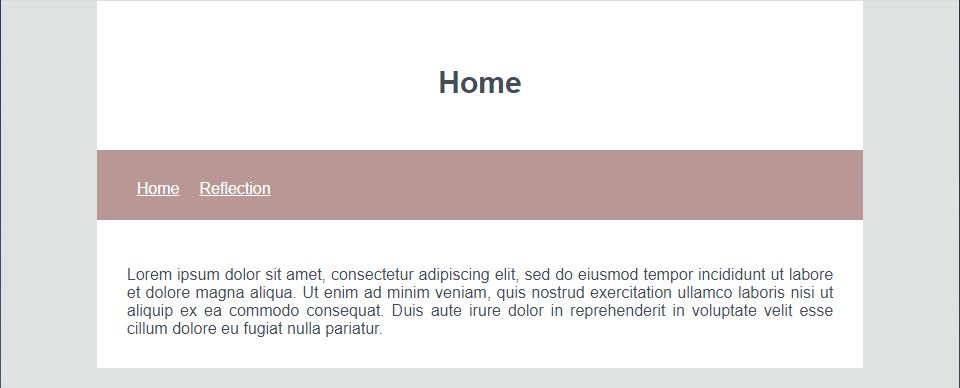
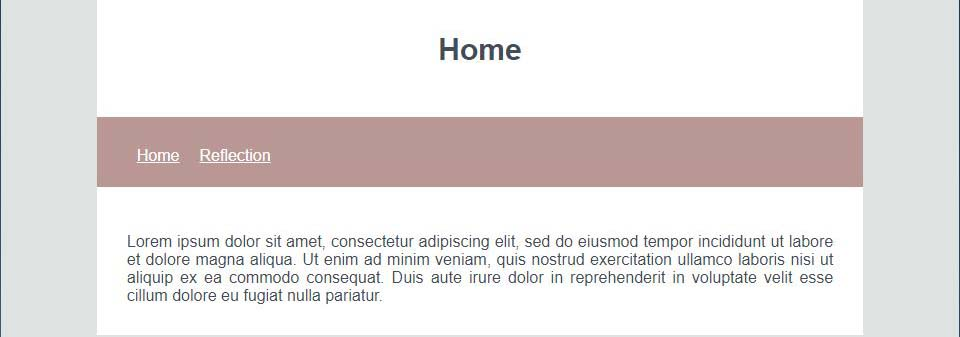
changed nav, added month headings

diff --git a/style.css b/style.css
@@ -1,5 +1,5 @@
 @media only screen and (min-width: 600px){
-    body {
+body {
 	margin: 0;
 	padding: 0;
     background-color: #DEE2E1;
@@ -16,6 +16,50 @@
     background-color: white;
 }
 
+.top-nav{
+    position: relative;
+    top: -20px;
+    background-color: #CDDAD8; /* light blue */
+    padding:30px;
+    /* padding-bottom: 50px; */
+}
+.month-nav {
+    background-color: #CDDAD8; /* light blue */
+    padding:30px;
+}
+
+.top-nav a{
+    color: #444c57;
+    /* float: left; */
+    padding-left: 30px;
+    padding-right: 30px;
+    padding-bottom: 20px;
+    font-size: 20px;
+    text-decoration: none;
+}
+
+.month-nav a {
+    color: #444c57;
+    padding-left: 30px;
+    padding-right: 30px;
+    padding-bottom: 20px;
+    font-size: 20px;
+    text-decoration: none;
+}
+
+.top-nav a:hover, .month-nav a:hover{
+	color: white;
+	text-decoration: underline; /* Hover styles to let people know they can click it */
+}
+
+.monthNav a{
+    float: right;
+}
+
+.page-title, .name h2 {
+    color:  #98A7AC; /* pink */
+    font-family: 'Nobile', sans-serif;
+}
 
 .blog-entry3 {
     display: grid;
@@ -39,34 +83,9 @@
 }
 
 .pink {  /* changes the blog entry background color */
-    background-color: #98A7AC; /* pink */
+    background-color: #98A7AC; /* grey blue */
 }
 
-.top-nav {
-    background-color: #CDDAD8; /* pink */
-    padding:30px;
-    padding-bottom: 50px;
-}
-
-.top-nav a {
-    color: #444c57;
-    float: left;
-    padding-left: 30px;
-    padding-right: 30px;
-    padding-bottom: 20px;
-    font-size: 20px;
-    text-decoration: none;
-}
-
-.top-nav a:hover{
-	color: white; /* dark blue */
-	text-decoration: underline; /* Hover styles to let people know they can click it */
-}
-
-.page-title, .name h2 {
-    color:  #98A7AC; /* pink */
-    font-family: 'Nobile', sans-serif;
-}
 
 p {
     padding-left: 40px;
@@ -93,7 +112,7 @@ h2 {
     font-size: 30px;
 }
 
-.entrys-title {
+.month {
     padding-top: 15px;
     padding-bottom: 15px;
     font-family: 'Nobile', sans-serif;
@@ -102,14 +121,11 @@ h2 {
 .info-heading {
     width: 100%;
     height: 70px;
-    
     background-color: white;
     color: #444c57;
     justify-content: space-evenly;
- 
-  }
+}
 
-  
 .date {
     line-height: 40px;
     float: right;
@@ -128,7 +144,6 @@ h2 {
     vertical-align: middle;
 }
 
-
 .col-blue {
     color: #4e6978;
 }
@@ -138,7 +153,6 @@ h2 {
 }
 
 #my-image {
-    padding-top: 40px;
     max-width: 30vw;
     height: auto;
 }
@@ -266,12 +280,6 @@ h2 {
     
     h2 {
         font-size: 27px;
-    }
-    
-    .entrys-title {
-        padding-top: 15px;
-        padding-bottom: 15px;
-        font-family: 'Nobile', sans-serif;
     }
     
     .info-heading {

diff --git a/reflection.html b/reflection.html
@@ -8,16 +8,24 @@
     <body>
         <div class="container">
 
-            <section class="page-title">
-                <h1>Reflections</h1>
-            </section>
-
             <div class="top-nav">
                 <a href="index.html">Home</a>
                 <a href="reflection.html">Reflection</a>
             </div>
 
-            <h2 class="entrys-title" >Blog entrys:</h2>
+            <section class="page-title">
+                <h1>Reflections</h1>
+            </section>
+
+            <div class="month-nav">
+                <a href="#one">July</a>
+                <a href="#two">August</a>
+                <a href="#three">September</a>
+            </div>
+
+            <div class="month">
+                <h2 id="one">July</h2>
+            </div>
 
             <div class="blog-entry blue">
                 <div class="info-heading">
@@ -77,6 +85,10 @@
                 <div class="text">
                     <p>In today's class, I focused on creating wireframes for the mobile and tablet view of my blog. As my blog will be responsive, I needed to plan what the different page sizes would look like. Responsiveness is an important aspect to consider as it allows people who may be viewing my blog to use different devices and still receive the designed output I have created. </p>
                 </div>
+            </div>
+
+            <div class="month">
+                <h2 id="two">August</h2>
             </div>
 
             <div class="blog-entry blue">
@@ -150,6 +162,10 @@
                 <div class="text">
                     <p>I have previously worked with JavaScript however, I did not know how to implement it into an HTML document. Once I had implemented my images and created the buttons following the example I was initially unsure about what part of the code needed to go into the function. I learnt how to make buttons, how to link the js file to the HTML file through the script tag and what parts of the code go into the function. I am excited to learn more about JavaScript and the different features it can create. </p>
                 </div>
+            </div>
+
+            <div class="month">
+                <h2 id="three">September</h2>
             </div>
 
             <div class="blog-entry blue">

diff --git a/index.html b/index.html
@@ -7,13 +7,15 @@
 
     <body>
         <div class="container">
-            <section class="page-title">
-                <h1>Home</h1>
-            </section>
             <div class="top-nav">
                 <a href="index.html">Home</a>
                 <a href="reflection.html">Reflection</a>
             </div>
+            
+            <section class="page-title">
+                <h1>Home</h1>
+            </section>
+            
 
             <div class="about-me">
                     <div>
